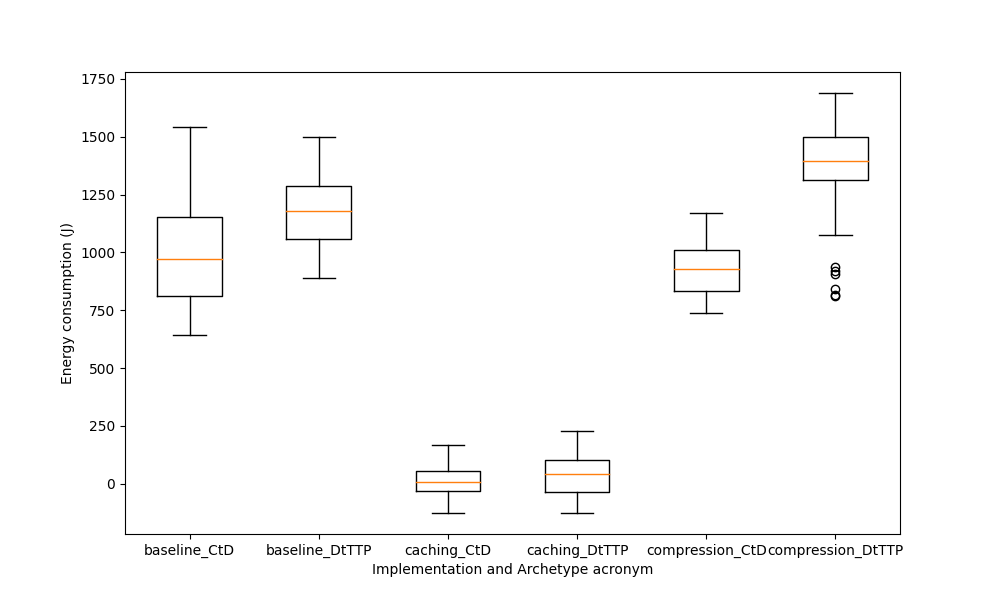
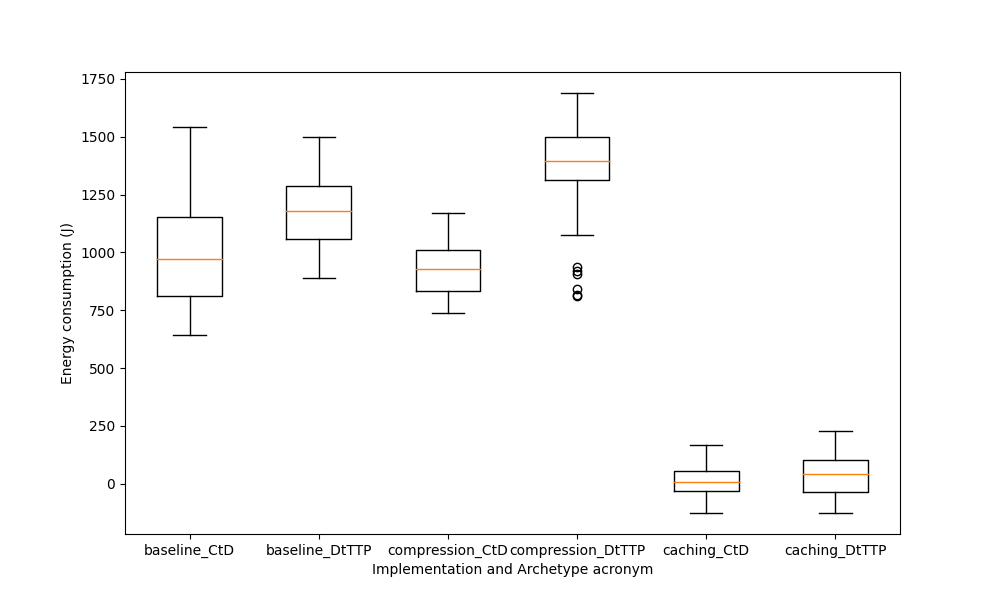
refactor: move variables to constants and add per archetype and all archetypes calculation of means

diff --git a/energy-efficiency/experiments/calculate_mean.py b/energy-efficiency/experiments/calculate_mean.py
@@ -20,24 +20,34 @@ def calculate_means(df: pd.DataFrame):
 
 if __name__ == "__main__":
     parser = argparse.ArgumentParser(description="Run energy efficiency experiment")
-    parser.add_argument("archetype", type=str, choices=["ComputeToData", "DataThroughTTP"], 
-                        help="Archetype to detect anomalies from.")
-    parser.add_argument("prefix", type=str, choices=["baseline", "caching", "compression"], help="Prefix of the experiment folders")
+    parser.add_argument("archetype", type=str, choices=["ComputeToData", "DataThroughTTP", "all"], 
+                        help="Archetype to calculate means from.")
     args = parser.parse_args()
 
-    # Load the data (will load all experiments folders and its data with the prefix)
-    df, exp_dirs = utils.load_experiment_results(args.prefix, args.archetype)
+    data_dict = {}
+    # If all is selected, use all archetypes
+    archetypes = constants.ARCHETYPES if args.archetype == "all" else [args.archetype]
 
-    # TODO: calculate average and STD.
-
-    if df.empty:
-        print("No data loaded. Exiting.")
-    else:
-        # Print results
-        total_runs = len(df)
-        means = calculate_means(df)
-        energy_per_task = means["total_energy_difference"] / constants.NUM_EXP_ACTIONS
-        print(f"Total number of runs used: {total_runs}")
-        print("Means for specified columns:")
-        print(means)
-        print(f"Energy per task: {energy_per_task}")
+    # Load the data for each prefix and archetype (do archetype as the parent loop 
+    # to ensure implementations are shown next to each other)
+    for archetype in archetypes:
+        for prefix in constants.IMPLEMENTATIONS_PREFIXES:
+            # Load the data (will load all experiments folders and its data with the prefix)
+            df, exp_dirs = utils.load_experiment_results(prefix, archetype)
+            # If data is not empty, calculate the mean values
+            if not df.empty:
+                # Calculate results
+                total_repetitions = len(df)
+                means = calculate_means(df)
+                energy_per_task = means["total_energy_difference"] / constants.NUM_EXP_ACTIONS
+                # Print results for this archetype and implementation
+                print("\n***************************************************************************")
+                print(f"Implementation: {prefix}\nArchetype: {archetype}")
+                print(f"Total number of experiment repetitions used: {total_repetitions}")
+                print(f"Energy per task: {energy_per_task}")
+                print("Means for specified columns:")
+                print(means)
+                print("\n***************************************************************************")
+                # data_dict[f"{constants.ARCHETYPE_ACRONYMS[archetype]}_prefix"] = df
+            else:
+                print(f"No data loaded for prefix: {prefix} and archetype: {archetype}")

diff --git a/energy-efficiency/experiments/generate_box_plot.py b/energy-efficiency/experiments/generate_box_plot.py
@@ -3,6 +3,7 @@ import matplotlib.pyplot as plt
 import argparse
 import utils
 import os
+import constants
 
 def generate_box_plot(data_dict, archetype: str, figsize):
     # Get the energy values from the df
@@ -29,26 +30,20 @@ if __name__ == "__main__":
                         help="Archetype to generate box plot from.")
     args = parser.parse_args()
 
-    # All prefixes, i.e. implementations
-    prefixes = ["baseline", "caching", "compression"]
     data_dict = {}
 
     # If all is selected, use all archetypes and set different figsize
-    archetypes = ["ComputeToData", "DataThroughTTP"] if args.archetype == "all" else [args.archetype]
-    figsize = (10, 6) if args.archetype == "all" else (6, 6)
-    # Set archetype acronyms
-    archetype_acronyms = {
-        "ComputeToData": "CtD", 
-        "DataThroughTTP": "DtTTP"
-    }
+    archetypes = constants.ARCHETYPES if args.archetype == "all" else [args.archetype]
+    figsize = (10, 6) if args.archetype == "all" else (6, 6)    
 
     # Load the data for each prefix and archetype (do prefix as the parent loop 
     # to ensure implementations are shown next to each other)
-    for prefix in prefixes:
+    for prefix in constants.IMPLEMENTATIONS_PREFIXES:
         for archetype in archetypes:
+            # Load the data (will load all experiments folders and its data with the prefix)
             df, exp_dirs = utils.load_experiment_results(prefix, archetype)
             if not df.empty:
-                data_dict[f"{prefix}_{archetype_acronyms[archetype]}"] = df
+                data_dict[f"{prefix}_{constants.ARCHETYPE_ACRONYMS[archetype]}"] = df
             else:
                 print(f"No data loaded for prefix: {prefix} and archetype: {archetype}")
 

diff --git a/energy-efficiency/experiments/test_normality.py b/energy-efficiency/experiments/test_normality.py
@@ -7,6 +7,7 @@ import utils
 def test_normality(df: pd.DataFrame, exp_dirs):
     # Perform Shapiro-Wilk normality test
     columns_to_test = ['total_energy_difference']
+    # columns_to_test = ['total_energy_difference', 'average_exec_time']
     not_normal = {col: 0 for col in columns_to_test}
     normal = {col: 0 for col in columns_to_test}
 
@@ -28,16 +29,11 @@ def test_normality(df: pd.DataFrame, exp_dirs):
         else:
             print(f"Not enough data points for normality test in column: {column}")
 
-    # Print results
-    for column in columns_to_test:
-        print(f"Total not normal distributions for {column}: {not_normal[column]}")
-        print(f"Total normal distributions for {column}: {normal[column]}")
-
 if __name__ == "__main__":
     parser = argparse.ArgumentParser(description="Run normality test on energy efficiency experiment data")
     parser.add_argument("archetype", type=str, choices=["ComputeToData", "DataThroughTTP"], 
                         help="Archetype to test normality from.")
-    parser.add_argument("prefix", type=str, choices=["baseline", "caching", "compression"], help="Prefix of the experiment folders")
+    parser.add_argument("prefix", type=str, choices=["baseline", "caching", "compression"], help="Prefix of the optimization to compare to baseline experiment folders")
     args = parser.parse_args()
 
     # Load the data

diff --git a/energy-efficiency/experiments/constants.py b/energy-efficiency/experiments/constants.py
@@ -1,3 +1,12 @@
+# Experiment script values
+# All prefixes, i.e. implementations
+IMPLEMENTATIONS_PREFIXES = ["baseline", "compression", "caching"]
+ARCHETYPES = ["ComputeToData", "DataThroughTTP"]
+ARCHETYPE_ACRONYMS = {
+    "ComputeToData": "CtD", 
+    "DataThroughTTP": "DtTTP"
+}
+
 # Prometheus 
 PROMETHEUS_URL = "http://localhost:9090"
 PROM_CONTAINERS = "{container_name=~\"system_processes|uva|vu|surf|sql.*|policy.*|orchestrator|sidecar|rabbitmq|api-gateway\"}"

diff --git a/energy-efficiency/experiments/README.md b/energy-efficiency/experiments/README.md
@@ -62,11 +62,12 @@ python3.10 test_normality.py "DataThroughTTP" "caching"
 ```
 
 
-### Executing mean calculation and others
+### Executing mean calculations
 ```sh
-python3.10 calculate_mean.py "ComputeToData" "baseline"
-# Or with a different prefix or archetype:
-python3.10 calculate_mean.py "DataThroughTTP" "caching"
+python3.10 calculate_mean.py "ComputeToData"
+# Or with a different archetype:
+python3.10 calculate_mean.py "DataThroughTTP"
+python3.10 calculate_mean.py "all"
 ```
 
 
@@ -77,5 +78,3 @@ python3.10 generate_box_plot.py "ComputeToData"
 python3.10 generate_box_plot.py "DataThroughTTP"
 python3.10 generate_box_plot.py "all"
 ```
-
-TODO: use all no option for box plot, as it should include all and only make a distinction in archetype.
